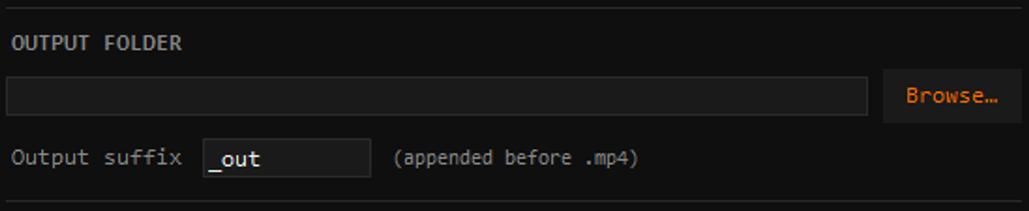
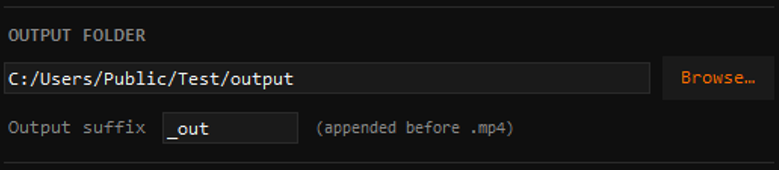
fixed centering

diff --git a/BulkVideoOverlayTool.py b/BulkVideoOverlayTool.py
@@ -71,33 +71,45 @@ class FFmpegGUI(tk.Tk):
 
         # ════ LEFT COLUMN ════════════════════════════════════════════════════
 
-        # column header row
-        hdr = tk.Frame(left, bg=BG)
-        hdr.pack(fill="x", pady=(0, 2))
-        hdr.columnconfigure(0, weight=1, uniform="col")
-        hdr.columnconfigure(1, weight=1, uniform="col")
-        tk.Label(hdr, text="VIDEO", font=("Consolas", 8, "bold"),
-                 bg=BG, fg=FG_DIM).grid(row=0, column=0, sticky="w")
-        tk.Label(hdr, text="OVERLAY", font=("Consolas", 8, "bold"),
-                 bg=BG, fg=FG_DIM).grid(row=0, column=1, sticky="w", padx=(8, 0))
-
         # scrollable file+overlay list
         list_frame = tk.Frame(left, bg=SURFACE, highlightthickness=1,
                               highlightbackground=BORDER)
         list_frame.pack(fill="both", expand=True)
 
-        self.list_canvas = tk.Canvas(list_frame, bg=SURFACE, bd=0,
+        # scrollbar first so list_inner excludes its width
+        sb = ttk.Scrollbar(list_frame, orient="vertical")
+        sb.pack(side="right", fill="y")
+
+        list_inner = tk.Frame(list_frame, bg=SURFACE)
+        list_inner.pack(side="left", fill="both", expand=True)
+
+        # column header row — inside list_inner so it matches the canvas width exactly
+        hdr = tk.Frame(list_inner, bg=BG)
+        hdr.pack(fill="x")
+        hdr.columnconfigure(0, weight=1, uniform="col")
+        hdr.columnconfigure(1, weight=1, uniform="col")
+        tk.Label(hdr, text="VIDEO", font=("Consolas", 8, "bold"),
+                 bg=BG, fg=FG_DIM).grid(row=0, column=0, sticky="w", padx=(6, 4), pady=2)
+        tk.Label(hdr, text="OVERLAY", font=("Consolas", 8, "bold"),
+                 bg=BG, fg=FG_DIM).grid(row=0, column=1, sticky="ew", padx=(0, 4), pady=2)
+        tk.Button(hdr, text="Browse…", font=FONT_XS, bg=BG, fg=BG,
+                  activebackground=BG, relief="flat", bd=0, padx=8, pady=3
+                  ).grid(row=0, column=2, padx=(0, 4), pady=3)
+        tk.Button(hdr, text="✕", font=FONT_XS, bg=BG, fg=BG,
+                  activebackground=BG, relief="flat", bd=0, padx=6, pady=3
+                  ).grid(row=0, column=3, padx=(0, 4), pady=3)
+        tk.Frame(list_inner, bg=BORDER, height=1).pack(fill="x")
+
+        self.list_canvas = tk.Canvas(list_inner, bg=SURFACE, bd=0,
                                      highlightthickness=0)
-        sb = ttk.Scrollbar(list_frame, orient="vertical",
-                           command=self.list_canvas.yview)
         self.rows_frame = tk.Frame(self.list_canvas, bg=SURFACE)
         self.rows_window = self.list_canvas.create_window(
             (0, 0), window=self.rows_frame, anchor="nw")
         self.rows_frame.bind("<Configure>", self._on_rows_configure)
         self.list_canvas.bind("<Configure>", self._on_canvas_configure)
         self.list_canvas.configure(yscrollcommand=sb.set)
-        sb.pack(side="right", fill="y")
-        self.list_canvas.pack(side="left", fill="both", expand=True)
+        sb.configure(command=self.list_canvas.yview)
+        self.list_canvas.pack(fill="both", expand=True)
         self.list_canvas.bind("<MouseWheel>", self._on_mousewheel)
         self.rows_frame.bind("<MouseWheel>", self._on_mousewheel)
 